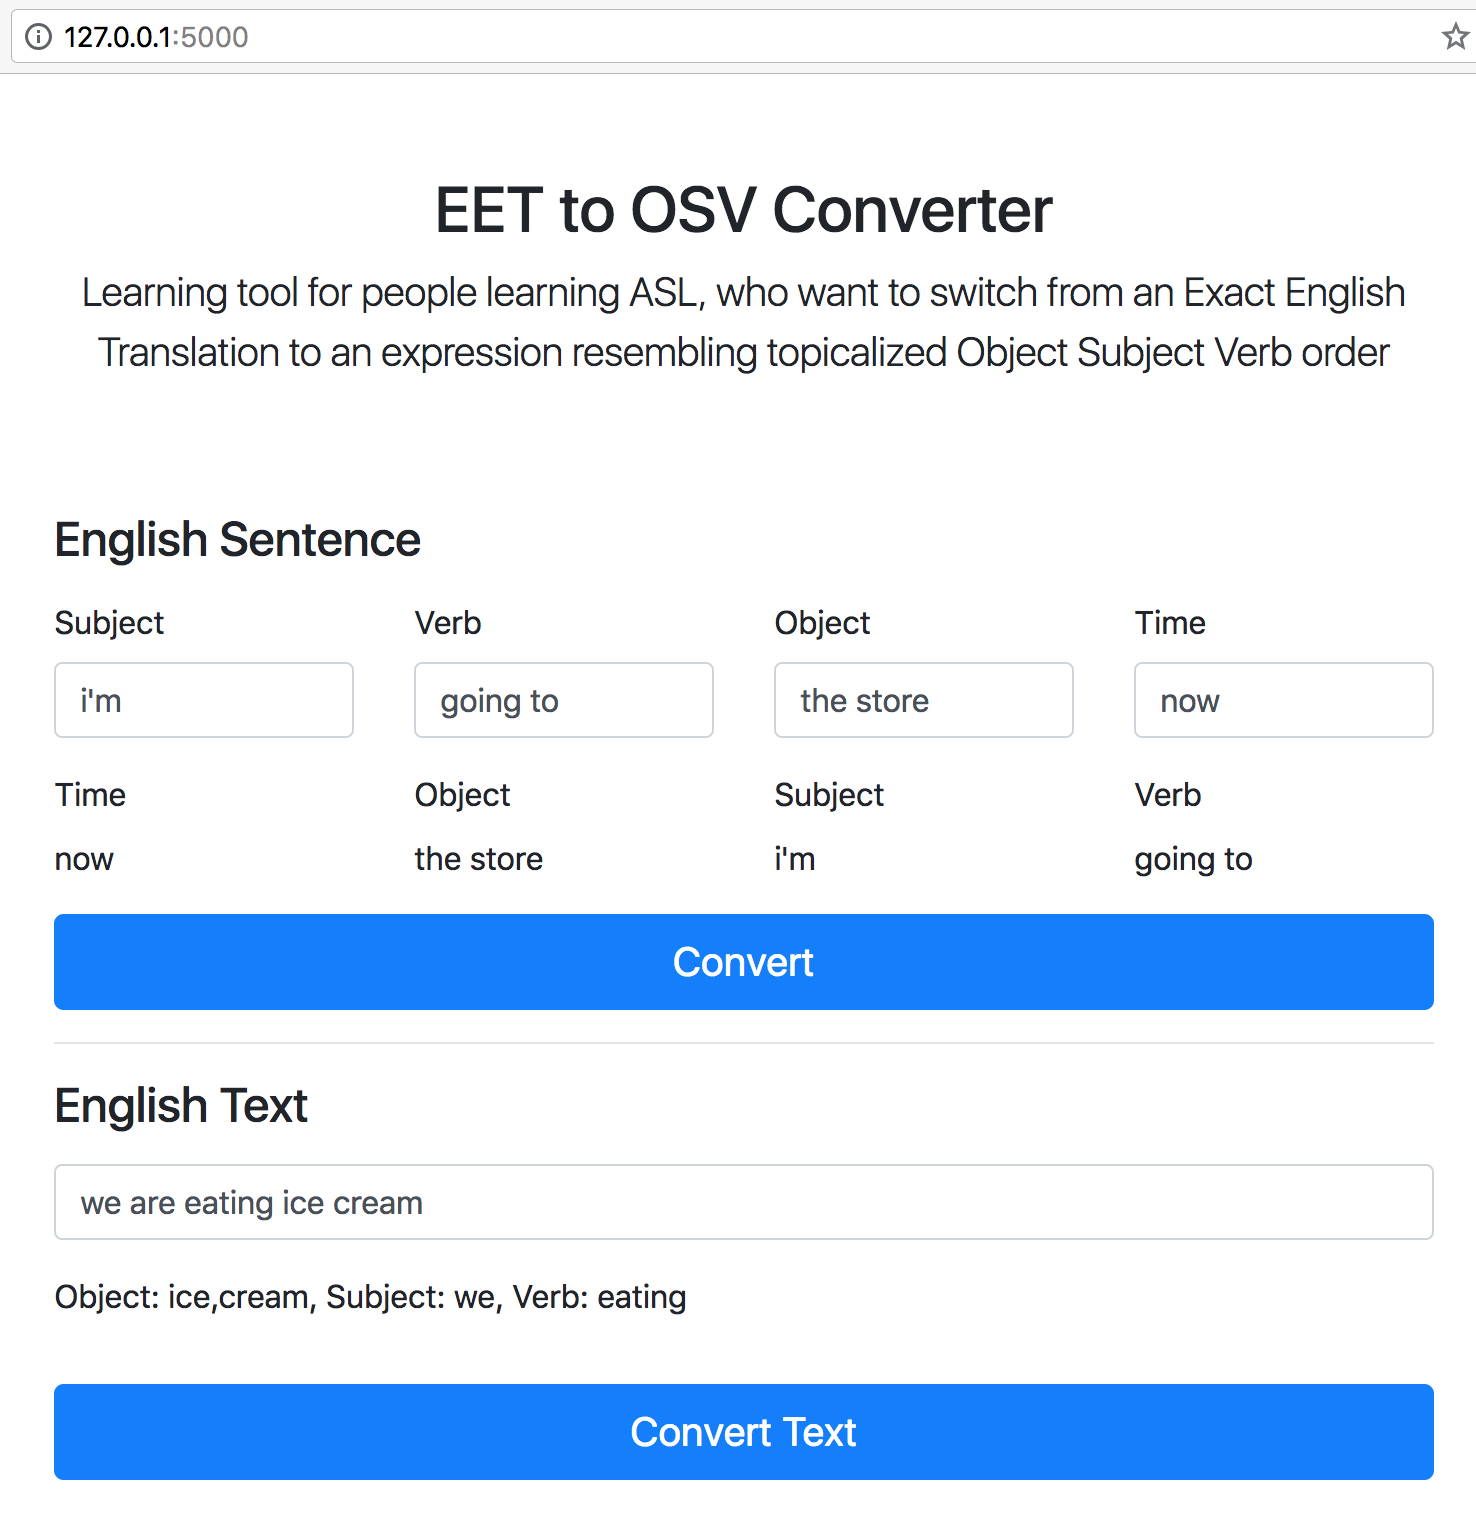
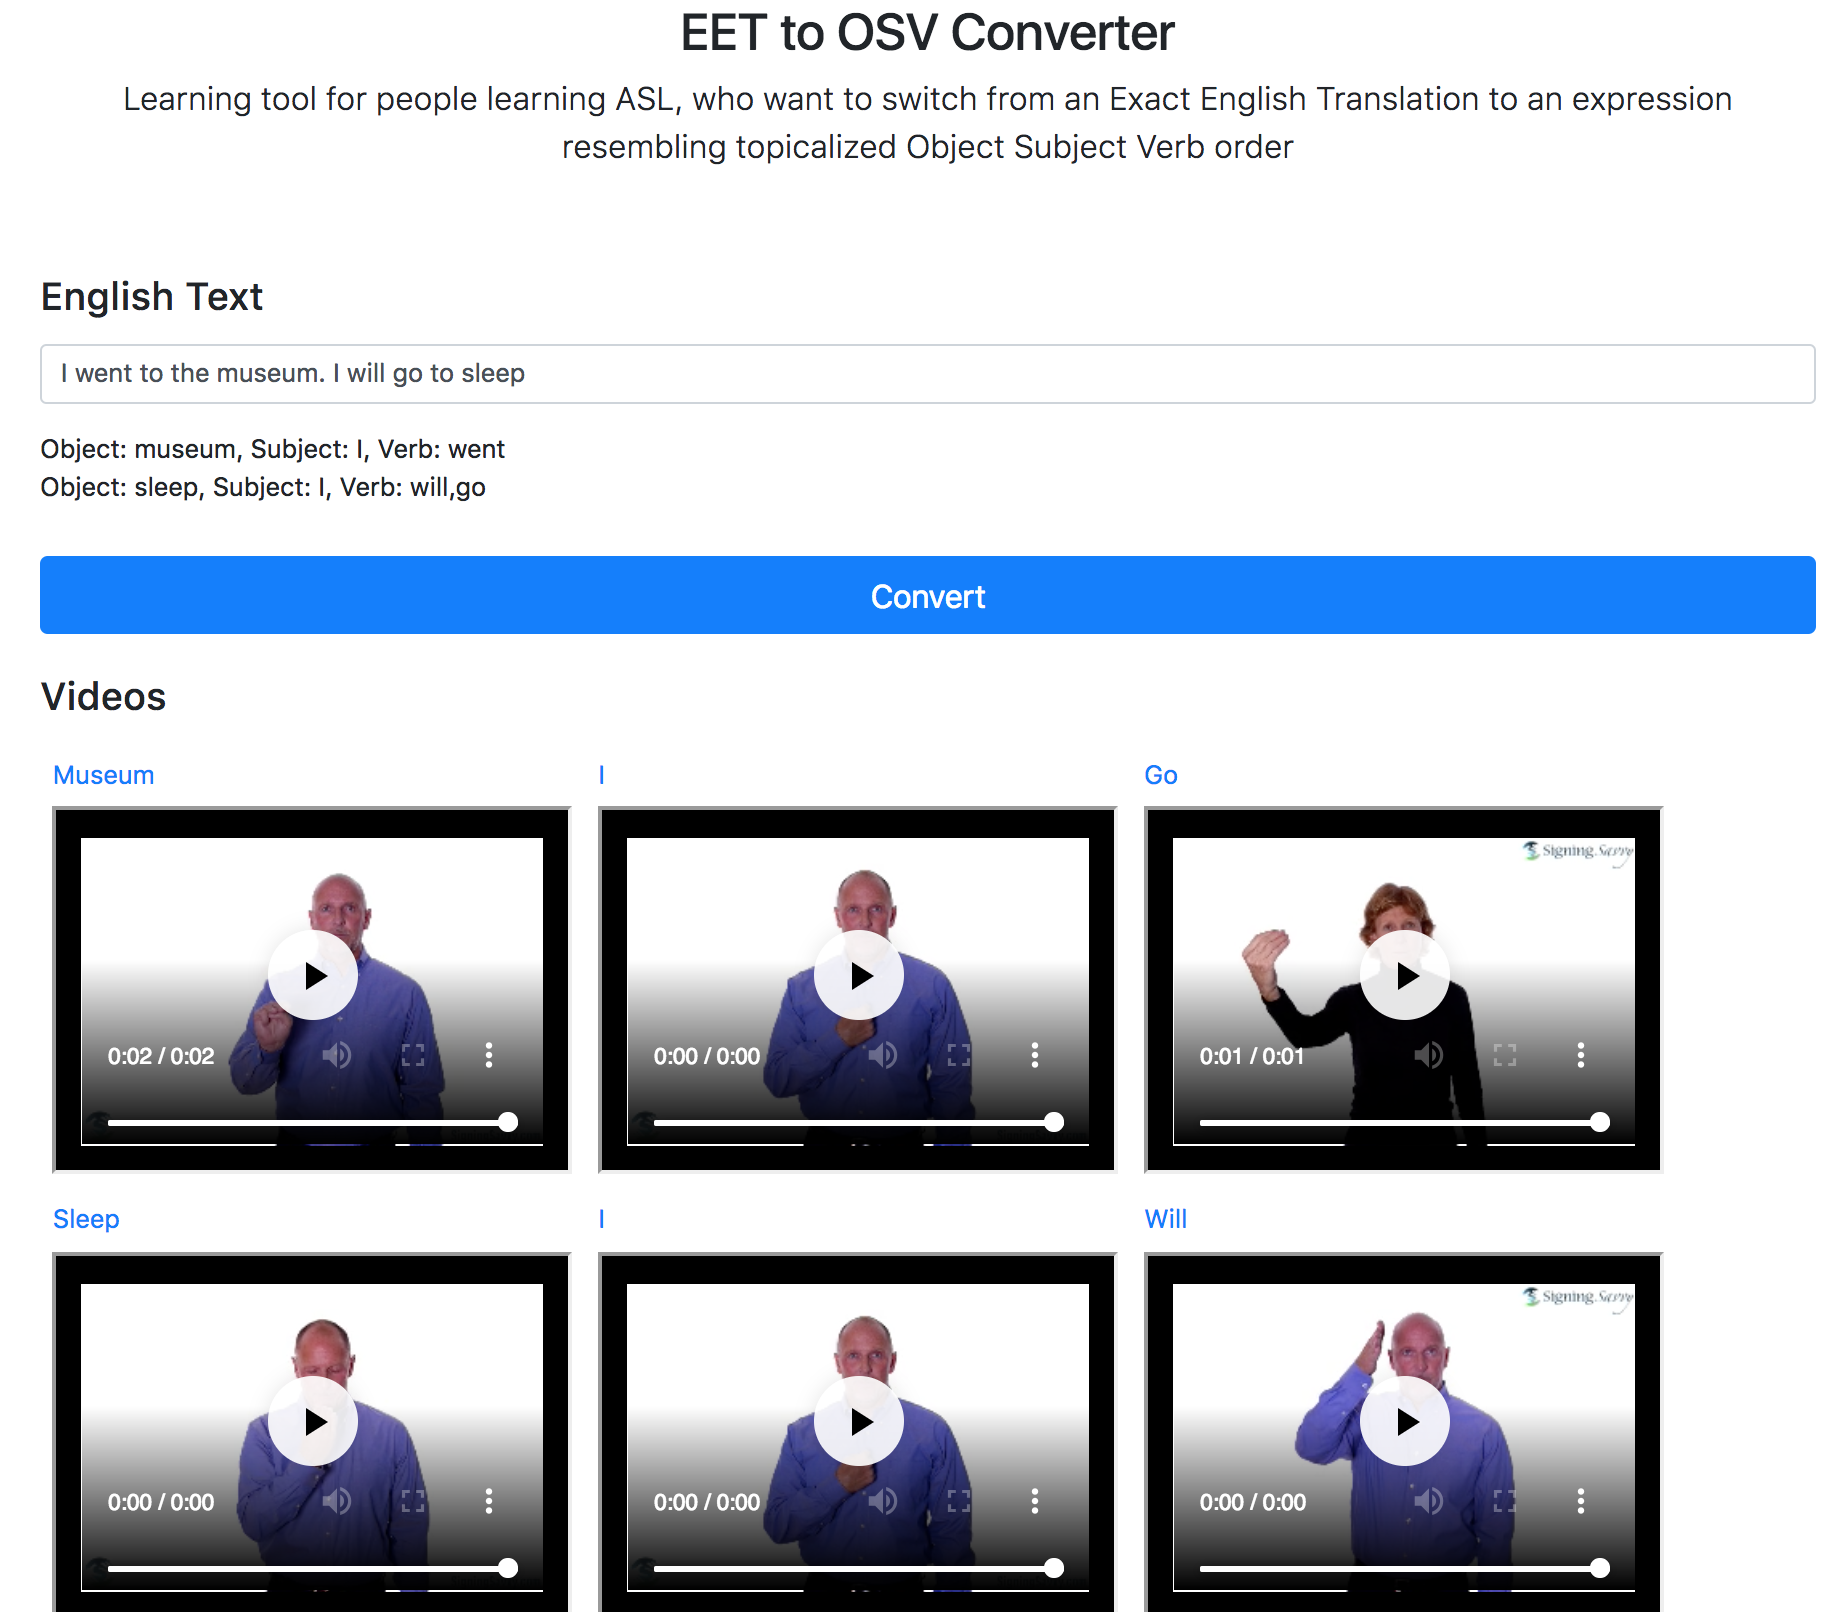
added sign videos

diff --git a/templates/index.html b/templates/index.html
@@ -26,44 +26,6 @@
         <p class="lead">Learning tool for people learning ASL, who want to switch from an Exact English Translation to an expression resembling topicalized Object Subject Verb order</p>
       </div>
 
-      <div class="row">
-        <div class="col-md-12 order-md-1">
-          <h4 class="mb-3">English Sentence</h4>
-          <form class="needs-validation" id="converterForm" novalidate>
-            <div class="row">
-              <div class="col-md-3 mb-3">
-                <label for="eetSubject">Subject</label>
-                <input type="text" class="form-control" id="eetSubject" placeholder="" value="" required>
-                <div class="invalid-feedback">
-                  Valid subject is required.
-                </div>
-              </div>
-              <div class="col-md-3 mb-3">
-                <label for="eetVerb">Verb</label>
-                <input type="text" class="form-control" id="eetVerb" placeholder="" value="" required>
-                <div class="invalid-feedback">
-                  Valid verb is required.
-                </div>
-              </div>
-              <div class="col-md-3 mb-3">
-                <label for="eetObject">Object</label>
-                <input type="text" class="form-control" id="eetObject" placeholder="" value="" required>
-                <div class="invalid-feedback">
-                  Valid object is required.
-                </div>
-              </div>
-              <div class="col-md-3 mb-3">
-                <label for="eetTime">Time</label>
-                <input type="text" class="form-control" id="eetTime" placeholder="" value="" required>
-                <div class="invalid-feedback">
-                  Valid time is required.
-                </div>
-              </div>
-            </div>
-          </form>
-        </div>
-      </div>
-
       <div id=top class="row collapse">
         <div class="col-md-12 order-md-1">
             <div class="row">
@@ -89,21 +51,13 @@
 
       <div class="row">
         <div class="col-md-12 order-md-1">
-          <button class="btn btn-primary btn-lg btn-block" id="convertButton" type="button">Convert</button>
-        </div>
-      </div>
-
-      <hr class="col-m-12">
-
-      <div class="row">
-        <div class="col-md-12 order-md-1">
           <form class="needs-validation" id="converterLongForm" novalidate>
             <h4 class="mb-3">English Text</h4>
             <div class="row">
               <div class="col-md-12 mb-3">
                 <input type="text" class="form-control" id="eetParagraph" placeholder="" value="" required>
                 <div class="invalid-feedback">
-                  Valid subject is required.
+                  Valid text is required.
                 </div>
               </div>
             </div>
@@ -123,14 +77,17 @@
 
       <div class="row">
         <div class="col-md-12 order-md-1">
-            <button class="btn btn-primary btn-lg btn-block" id="convertParagraphButton" type="button">Convert Text</button>
+            <button class="btn btn-primary btn-lg btn-block" id="convertParagraphButton" type="button">Convert</button>
         </div>
       </div>
 
-
+      <div id="videos" class="row collapse mt-4">
+        <div class="col-md-12 order-md-1">
+            <h4 class="mb-3">Videos</h4>
+              <div id="signVideos"></div>
+        </div>
+      </div>
     </div>
-
-
 
 
     <!-- jQuery (necessary for Bootstrap's JavaScript plugins) -->

diff --git a/static/convert.js b/static/convert.js
@@ -1,10 +1,5 @@
 $(document).ready(function(){
   console.log("page loaded");
-  $("#convertButton").click(function(e){
-    e.preventDefault();
-    convertEetToASL();
-  });
-
   $("#convertParagraphButton").click(function(e){
     e.preventDefault();
     getTokens();
@@ -12,25 +7,37 @@ $(document).ready(function(){
 })
 
 
-function convertEetToASL(e) {
-    let subject = $("#eetSubject").val();
-    $("#aslSubject").html(subject);
-    let object = $("#eetObject").val();
-    $("#aslObject").html(object);
-    let verb = $("#eetVerb").val();
-    $("#aslVerb").html(verb);
-    let time = $("#eetTime").val();
-    $("#aslTime").html(time);
-    $( "#top" ).removeClass( "collapse" )
+const doc = document;
+
+function setSentence(s) {
+    let times = (s.times.length ? "Time: " + s.times.join() + ", " : "");
+    let objects = (s.objects.length ? "Object: " + s.objects.join() + ", " : "");
+    let subjects = (s.subjects.length ? "Subject: " + s.subjects.join() + ", ": "");
+    let verbs = (s.verbs.length ? "Verb: " + s.verbs.join() + "" : "");
+    $("#bottomConverted").html($("#bottomConverted").html() +  times +  objects +  subjects +  verbs + "<br />");
 }
 
+function setVideo(v) {
+    let video_container = document.createElement("div")
+    video_container.classList.add("d-inline-block")
 
-function setNewSentence(d) {
-    let times = (d.times.length ? "Time: " + d.times.join() + ", " : "");
-    let objects = (d.objects.length ? "Object: " + d.objects.join() + ", " : "");
-    let subjects = (d.subjects.length ? "Subject: " + d.subjects.join() + ", ": "");
-    let verbs = (d.verbs.length ? "Verb: " + d.verbs.join() + "" : "");
-    $("#bottomConverted").html($("#bottomConverted").html() +  times +  objects +  subjects +  verbs + "<br />");
+    let video_description = document.createElement("a")
+    video_description.innerText = v[0]
+    video_description.classList.add("row")
+    video_description.classList.add("m-2")
+    video_description.href = v[2]
+
+    let video_iframe = document.createElement("iframe")
+    video_iframe.src = v[1]
+    video_iframe.classList.add("row")
+    video_iframe.classList.add("m-2")
+    video_iframe.width = 325
+    video_iframe.height = 230
+
+    let videos = document.querySelector("#signVideos")
+    video_container.appendChild(video_description)
+    video_container.appendChild(video_iframe)
+    videos.appendChild(video_container)
 }
 
 
@@ -42,8 +49,21 @@ function getTokens(e) {
     contentType: "application/json",
     complete: function(data){
             $("#bottomConverted").html("");
-            data.responseJSON.forEach(setNewSentence);
-            $( "#bottom" ).removeClass( "collapse" );
+            data.responseJSON['sentences'].forEach(setSentence);
+            $("#bottom").removeClass( "collapse" );
+
+            // clear out previous videos and hide
+            $("#bottom").addClass( "collapse" );
+            let signVideos = document.querySelector("#signVideos")
+            while (signVideos.firstChild) {
+                signVideos.removeChild(signVideos.firstChild)
+            }
+
+            // populate new videos and un-hide
+            data.responseJSON['videos'].forEach(setVideo);
+            if (data.responseJSON['videos'].length > 0) {
+                $("#videos").removeClass( "collapse" );
+            }
         }
     });
 }

diff --git a/app.py b/app.py
@@ -1,5 +1,9 @@
 import spacy
 from flask import Flask, request, jsonify, render_template
+from bs4 import BeautifulSoup
+import requests
+from functools import reduce
+
 nlp = spacy.load('en_core_web_sm')
 app = Flask(__name__, static_url_path='/static', template_folder='templates')
 
@@ -11,8 +15,28 @@ def root():
 
 @app.route("/get_tosv_sentence", methods=["POST"])
 def get_tosv_sentence():
-    s = request.get_json()
-    return jsonify(get_tokens(nlp(s)))
+    doc = nlp(request.get_json())
+    sentences_data = get_sentences_with_videos(doc)
+    # TODO maybe later return more videos for each pos
+    sentences = \
+        [
+            dict(subjects=[t.text for t in s.subjects],
+                 objects=[t.text for t in s.objects],
+                 times=[t.text for t in s.times],
+                 verbs=[t.text for t in s.verbs]
+                 )
+            for s in sentences_data
+        ]
+    videos = [
+        [(t.text.capitalize(), t.video, t.source) for t in s.times] +
+        [(t.lemma.capitalize(), t.video, t.source) for t in s.objects] +
+        [(t.text.capitalize(), t.video, t.source) for t in s.subjects] +
+        [(t.lemma.capitalize(), t.video, t.source) for t in s.verbs]
+         for s in sentences_data
+    ]
+    videos = reduce(lambda x, y: x + y, videos) if videos else []
+    videos = [v for v in videos if v[1]]
+    return jsonify(dict(sentences=sentences, videos=videos))
 
 
 def _print_tokens(doc):
@@ -22,52 +46,95 @@ def _print_tokens(doc):
     print()
 
 
-def _append_token_before_adjs(t, key, token, adjs):
-    t[key].append(token.text)
-    while adjs:
-        t[key].append(adjs.pop(0))
+def get_video_url(w):
+    try:
+        r = requests.get('https://www.signingsavvy.com/search/' + w.lower())
+        soup = BeautifulSoup(r.content, 'html.parser')
+        url = "https://www.signingsavvy.com/" + \
+              [x for x in soup.find_all('a') if x.contents[0] == w.upper()][0].attrs[
+                  'href']
+        r = requests.get(url)
+        soup = BeautifulSoup(r.content, 'html.parser')
+        video_path = soup.find_all('video')[0].contents[0].attrs['src']
+        video_url = 'https://www.signingsavvy.com/' + video_path
+        print("video_url={}".format(video_url))
+        return video_url, url
+    except:
+        return None, None
 
 
-def get_tokens(doc):
+class PartOfSpeech:
+    VERB = 1
+    OBJECT = 2
+    SUBJECT = 3
+    TIME = 4
+
+
+class Token:
+    def __init__(self, text, lemma, pos):
+        self.part_of_speech = pos
+        self.text = text
+        self.lemma = lemma  # use to find videos for objects and verbs
+        text = lemma if pos is PartOfSpeech.OBJECT or pos is PartOfSpeech.VERB else text
+        self.video, self.source = get_video_url(text)
+
+
+class Sentence:
+    def __init__(self):
+        self.verbs = list()
+        self.subjects = list()
+        self.objects = list()
+        self.times = list()
+
+    def add_word(self, pos, token, adjs):
+        word_list = None
+        if pos == PartOfSpeech.VERB:
+            word_list = self.verbs
+        if pos == PartOfSpeech.SUBJECT:
+            word_list = self.subjects
+        if pos == PartOfSpeech.OBJECT:
+            word_list = self.objects
+        if pos == PartOfSpeech.TIME:
+            word_list = self.times
+        word_list.append(Token(text=token.text, lemma=token.lemma_, pos=pos))
+        while adjs:
+            word_list.append(adjs.pop(0))
+
+
+def get_sentences_with_videos(doc):
     sentences = list()
-    t = None
+    sentence = None
     # adjectives go after subjects or objects
     adjs = []
-    be_verbs = ['am', 'is', 'are', 'were', 'was', 'be', 'will']
+
     for token in doc:
-        if not t:
-            t = dict(
-                verbs=[],
-                subjects=[],
-                objects=[],
-                times=[]
-            )
+        if not sentence:
+            sentence = Sentence()
         token_pos = token.pos_
-        token_text = token.text.lower()
         if token_pos == 'VERB':
             # 'to be' verbs are not used in ASL
-            if token_text in be_verbs or "'" in token_text:
+            if token.lemma_ == 'be':
                 continue
-            t['verbs'].append(token_text)
+            sentence.add_word(PartOfSpeech.VERB, token, adjs)
         elif token_pos == 'NOUN':
-            if token.dep_ == 'npadvmod':
-                _append_token_before_adjs(t, 'times', token, adjs)
+            if token.dep_ == 'npadvmod':        # modifiers are adjectives
+                sentence.add_word(PartOfSpeech.TIME, token, adjs)
             else:
-                _append_token_before_adjs(t, 'objects', token, adjs)
+                sentence.add_word(PartOfSpeech.OBJECT, token, adjs)
         elif token_pos == 'PRON':
             if token.dep_ == 'npadvmod':
-                _append_token_before_adjs(t, 'times', token, adjs)
-            elif not t['subjects']:
-                # just append first subject
-                _append_token_before_adjs(t, 'subjects', token, adjs)
+                sentence.add_word(PartOfSpeech.TIME, token, adjs)
+            elif not sentence.subjects:         # just append first subject
+                sentence.add_word(PartOfSpeech.SUBJECT, token, adjs)
         elif token_pos == 'ADJ':
-            adjs.append(token_text)
-        elif token_pos == 'PUNCT' or token_text is 'then':
-            if t['verbs'] and t['subjects']:
-                sentences.append(t)
-                t = None
-    if t:
-        sentences.append(t)
+            adjs.append(token.text)
+        elif token_pos == 'PUNCT' or token.text is 'then':  # new sentence
+            if sentence.verbs and (sentence.objects or sentence.subjects):
+                sentences.append(sentence)
+                adjs = None
+                sentence = None
+    if sentence.verbs and (sentence.objects or sentence.subjects):
+        sentences.append(sentence)
     return sentences
 
 
